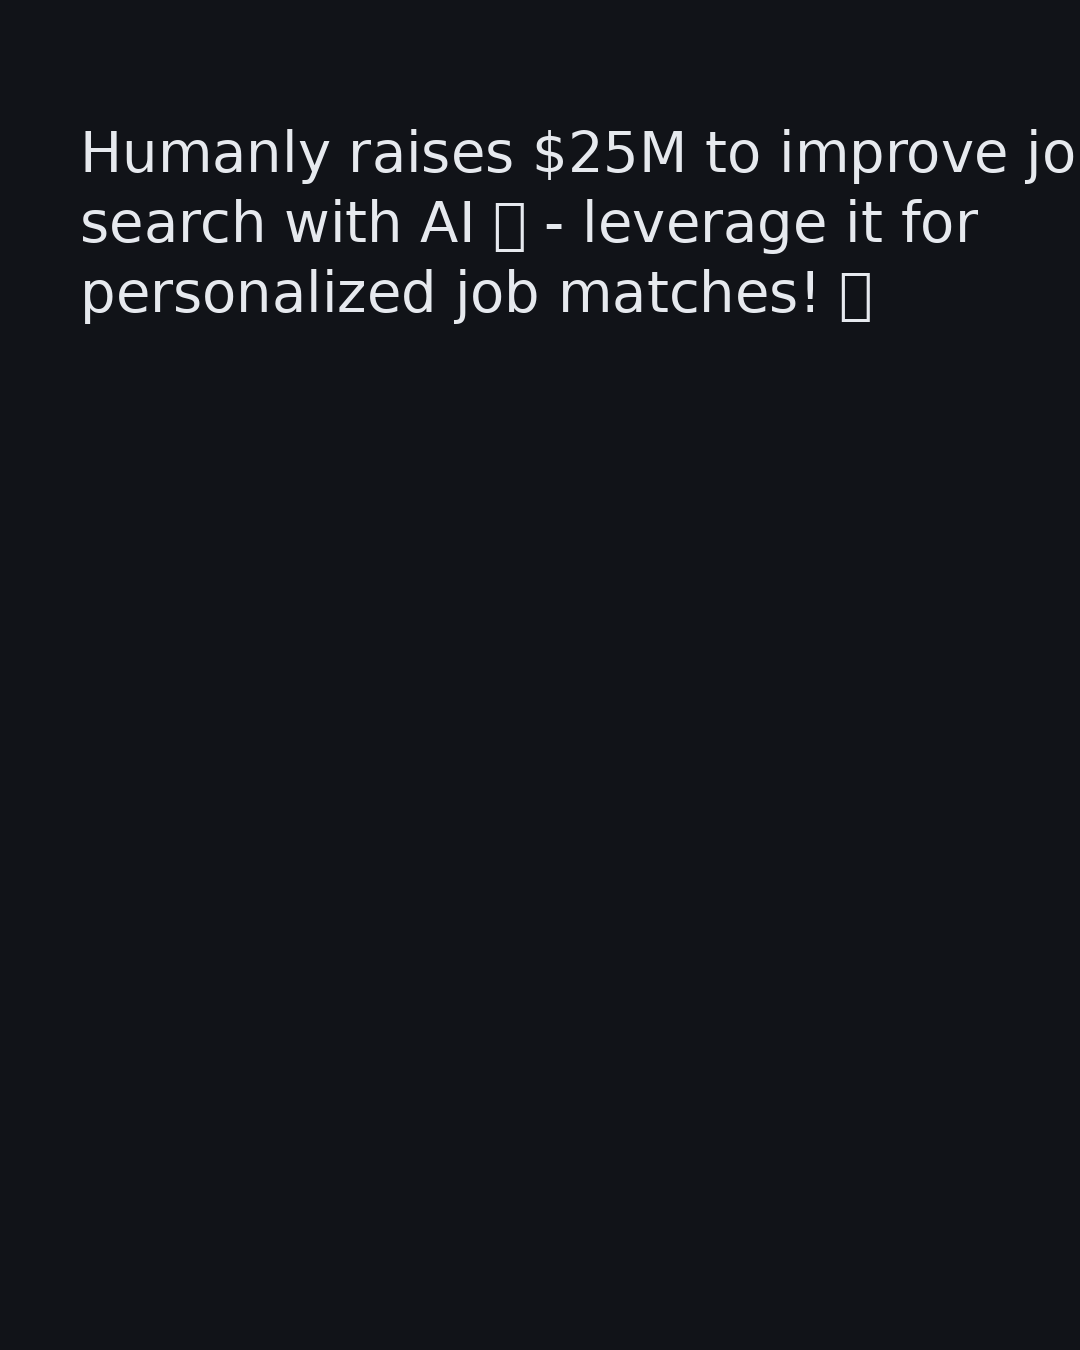
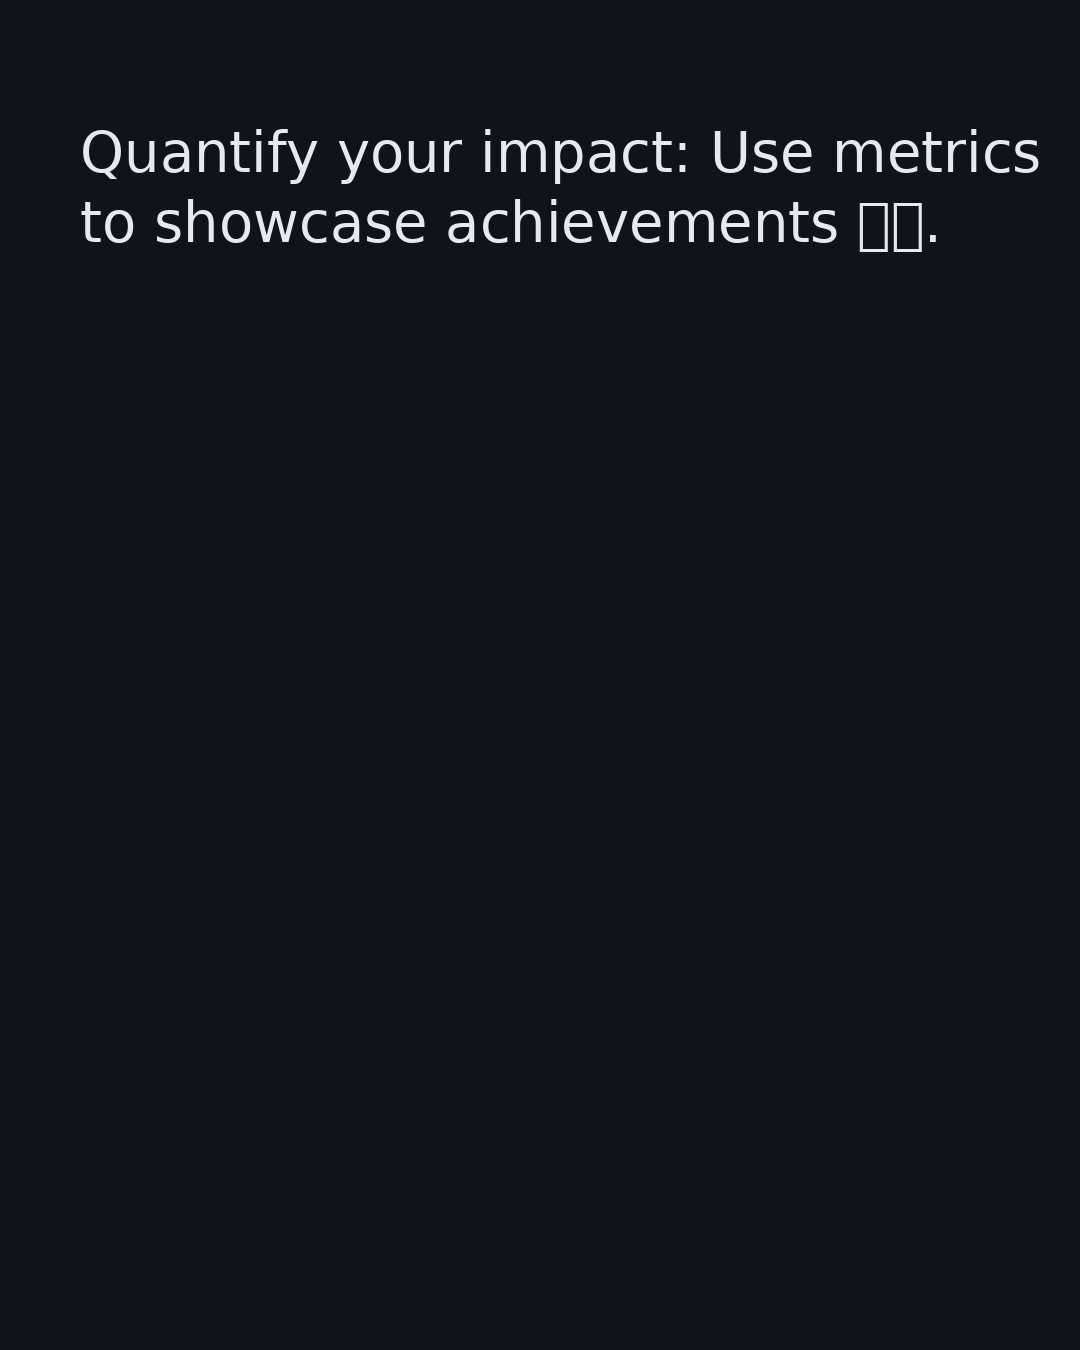
analytics: update reports, bandit, cron suggestion [skip ci]

Changed region(s): [[0.0611, 0.0933, 1.0, 0.2489], [0.7639, 0.2178, 0.7944, 0.2489]]

diff --git a/analytics/latest_report.md b/analytics/latest_report.md
@@ -1,9 +1,11 @@
 # Career Forge — Analytics Report
 
-_Generated: 2026-06-17T16:00:19.802706-07:00_
+_Generated: 2026-06-18T11:09:50.541847-07:00_
 
 ## Top 5 Posts (by engagement score)
 
+- **Quantify your impact: Use metrics to showcase achievements 🎯📈.**  
+  score=0.0 | likes=0 | replies=0 | reposts=0 | clicks=0 | saves=0 | time=2026-06-18T09:36:24-07:00 | style=unspecified | cta=question
 - **Humanly raises $25M to improve job search with AI 🤖 - leverage it for personalized job matches! 💼**  
   score=0.0 | likes=0 | replies=0 | reposts=0 | clicks=0 | saves=0 | time=2026-06-17T09:39:42-07:00 | style=unspecified | cta=question
 - **🎯 Craft a winning 30/60/90 plan to impress in interviews! 🚀**  
@@ -12,8 +14,6 @@ _Generated: 2026-06-17T16:00:19.802706-07:00_
   score=0.0 | likes=0 | replies=0 | reposts=0 | clicks=0 | saves=0 | time=2026-06-15T10:58:20-07:00 | style=unspecified | cta=question
 - **📈 Show ownership by discussing how you led initiatives and solved problems. 🚀**  
   score=0.0 | likes=0 | replies=0 | reposts=0 | clicks=0 | saves=0 | time=2026-06-14T08:08:31-07:00 | style=unspecified | cta=question
-- **Tell a cohesive career story by linking roles with a common theme. 🎯📈**  
-  score=0.0 | likes=0 | replies=0 | reposts=0 | clicks=0 | saves=0 | time=2026-06-13T08:02:52-07:00 | style=unspecified | cta=question
 
 ## Performance by Style
 
@@ -27,23 +27,23 @@ _Generated: 2026-06-17T16:00:19.802706-07:00_
 - swipe_headlines: avg_score=0.0 (n=1)
 - template_drop: avg_score=0.0 (n=5)
 - unknown: avg_score=0.0 (n=19)
-- unspecified: avg_score=0.0 (n=246)
+- unspecified: avg_score=0.0 (n=247)
 
 ## Performance by CTA Type
 
-- question: avg_score=0.0 (n=285)
+- question: avg_score=0.0 (n=286)
 - tip: avg_score=0.0 (n=2)
 - unknown: avg_score=0.0 (n=19)
 
 ## Emoji Count in Title
 
 - 0: avg_score=0.0 (n=9)
-- 2: avg_score=0.0 (n=248)
+- 2: avg_score=0.0 (n=249)
 - 3+: avg_score=0.0 (n=49)
 
 ## Title Length
 
-- <= 120: avg_score=0.0 (n=297)
+- <= 120: avg_score=0.0 (n=298)
 - <= 160: avg_score=0.0 (n=7)
 - <= 200: avg_score=0.0 (n=1)
 - <= 240: avg_score=0.0 (n=1)
@@ -51,16 +51,16 @@ _Generated: 2026-06-17T16:00:19.802706-07:00_
 ## Numbers / % / $ Present
 
 - no: avg_score=0.0 (n=137)
-- yes: avg_score=0.0 (n=169)
+- yes: avg_score=0.0 (n=170)
 
 ## Question Mark Present
 
-- yes: avg_score=0.0 (n=306)
+- yes: avg_score=0.0 (n=307)
 
 ## Bullets Present in Description
 
 - 0: avg_score=0.0 (n=6)
-- 1+: avg_score=0.0 (n=300)
+- 1+: avg_score=0.0 (n=301)
 
 ## Local Post Time Bucket
 
@@ -68,7 +68,7 @@ _Generated: 2026-06-17T16:00:19.802706-07:00_
 - early-morning: avg_score=0.0 (n=229)
 - evening: avg_score=0.0 (n=18)
 - late-afternoon: avg_score=0.0 (n=4)
-- morning: avg_score=0.0 (n=22)
+- morning: avg_score=0.0 (n=23)
 
 ## Next experiments
 

diff --git a/analytics/for_chatgpt.md b/analytics/for_chatgpt.md
@@ -5,20 +5,20 @@ We generate self-contained, emoji-forward posts twice daily. Below are feature a
 ## Feature Summary (averages)
 
 - bullets :: 0 => avg_score=0.0 (n=6)
-- bullets :: 1+ => avg_score=0.0 (n=300)
-- cta :: question => avg_score=0.0 (n=285)
+- bullets :: 1+ => avg_score=0.0 (n=301)
+- cta :: question => avg_score=0.0 (n=286)
 - cta :: tip => avg_score=0.0 (n=2)
 - cta :: unknown => avg_score=0.0 (n=19)
 - emoji :: 0 => avg_score=0.0 (n=9)
-- emoji :: 2 => avg_score=0.0 (n=248)
+- emoji :: 2 => avg_score=0.0 (n=249)
 - emoji :: 3+ => avg_score=0.0 (n=49)
-- len :: <= 120 => avg_score=0.0 (n=297)
+- len :: <= 120 => avg_score=0.0 (n=298)
 - len :: <= 160 => avg_score=0.0 (n=7)
 - len :: <= 200 => avg_score=0.0 (n=1)
 - len :: <= 240 => avg_score=0.0 (n=1)
 - number :: no => avg_score=0.0 (n=137)
-- number :: yes => avg_score=0.0 (n=169)
-- question :: yes => avg_score=0.0 (n=306)
+- number :: yes => avg_score=0.0 (n=170)
+- question :: yes => avg_score=0.0 (n=307)
 - style :: challenge => avg_score=0.0 (n=5)
 - style :: checklist => avg_score=0.0 (n=6)
 - style :: coach_tip => avg_score=0.0 (n=5)
@@ -29,12 +29,12 @@ We generate self-contained, emoji-forward posts twice daily. Below are feature a
 - style :: swipe_headlines => avg_score=0.0 (n=1)
 - style :: template_drop => avg_score=0.0 (n=5)
 - style :: unknown => avg_score=0.0 (n=19)
-- style :: unspecified => avg_score=0.0 (n=246)
+- style :: unspecified => avg_score=0.0 (n=247)
 - time :: early-afternoon => avg_score=0.0 (n=33)
 - time :: early-morning => avg_score=0.0 (n=229)
 - time :: evening => avg_score=0.0 (n=18)
 - time :: late-afternoon => avg_score=0.0 (n=4)
-- time :: morning => avg_score=0.0 (n=22)
+- time :: morning => avg_score=0.0 (n=23)
 
 ## Ask ChatGPT
 
@@ -42,8 +42,8 @@ Using the summary and top posts, propose 5 editing rules to maximize engagement,
 
 ## Top Posts (samples)
 
+- Quantify your impact: Use metrics to showcase achievements 🎯📈.  | score=0.0 | emojis=2 | len=62 | style=unspecified | cta=question
 - Humanly raises $25M to improve job search with AI 🤖 - leverage it for personalized job matches! 💼  | score=0.0 | emojis=2 | len=97 | style=unspecified | cta=question
 - 🎯 Craft a winning 30/60/90 plan to impress in interviews! 🚀  | score=0.0 | emojis=2 | len=59 | style=unspecified | cta=question
 - 🤝 Turn rejection into a stepping stone—leverage feedback to shine brighter next time! 🚀  | score=0.0 | emojis=2 | len=87 | style=unspecified | cta=question
 - 📈 Show ownership by discussing how you led initiatives and solved problems. 🚀  | score=0.0 | emojis=2 | len=77 | style=unspecified | cta=question
-- Tell a cohesive career story by linking roles with a common theme. 🎯📈  | score=0.0 | emojis=2 | len=69 | style=unspecified | cta=question

diff --git a/analytics/cron_suggestion.md b/analytics/cron_suggestion.md
@@ -6,7 +6,7 @@ Based on average engagement by **local time bucket** (America/Phoenix).
 - early-morning: avg_score=0.00 (n=229)
 - evening: avg_score=0.00 (n=18)
 - late-afternoon: avg_score=0.00 (n=4)
-- morning: avg_score=0.00 (n=22)
+- morning: avg_score=0.00 (n=23)
 
 ## Proposed crons (UTC)
 - `10 21 * * *`  ← early-afternoon
